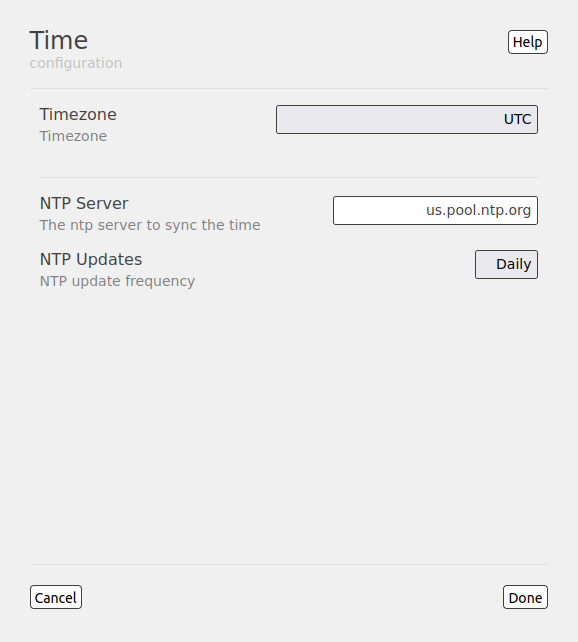
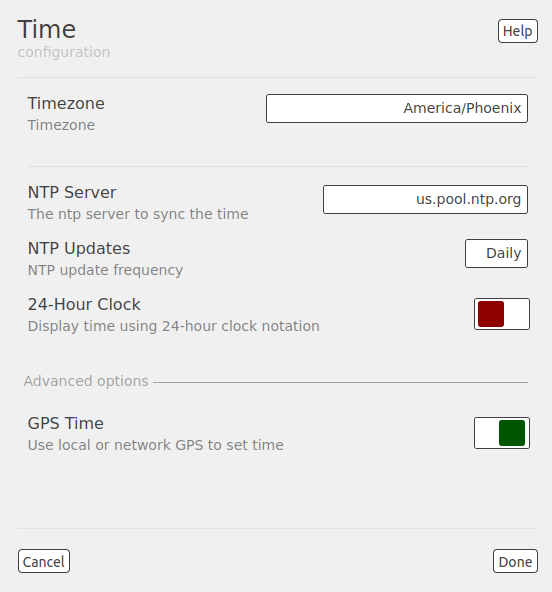
update admin time display

diff --git a/arednGettingStarted/node_admin.rst b/arednGettingStarted/node_admin.rst
@@ -72,7 +72,7 @@ You can click the ``Cancel`` button to ignore any changes you made on this displ
 Time settings
 -------------
 
-Select your timezone from the dropdown list, where the default value is :abbr:`UTC (Coordinated Universal Time)`. You can also enter the hostname for a :abbr:`NTP (Network Time Protocol)` source if your node is connected to a network which has a network time server. In the *NTP Server* field you should enter a valid hostname for the network time source, for example ``us.pool.ntp.org`` or ``AD5BC-ntp.local.mesh``. You may also choose how often NTP will update the node’s clock by selecting a value from the *NTP Updates* dropdown list. The default is once per day [daily] but you may also select once per hour [hourly]. If you have mesh based NTP servers, advertise them as services to ensure time synchronization across your mesh network even when the Internet is not available. Review the **Local Services** section below for instructions on advertising a local NTP server.
+Select your timezone from the dropdown list, where the default value is :abbr:`UTC (Coordinated Universal Time)`. You can also enter the hostname for a :abbr:`NTP (Network Time Protocol)` source if your node is connected to a network which has a network time server. In the *NTP Server* field you should enter a valid hostname for the network time source, for example ``us.pool.ntp.org`` or ``AD5BC-ntp.local.mesh``. You may also choose how often NTP will update the node’s clock by selecting a value from the *NTP Updates* dropdown list. The default is once per day [daily] but you may also select once per hour [hourly]. If you have mesh based NTP servers, advertise them as services to ensure time synchronization across your mesh network when the Internet is not available. Review the **Local Services** section below for instructions on advertising a local NTP server.
 
 .. image:: _images/admin-time.png
   :alt: Admin Time
@@ -80,7 +80,15 @@ Select your timezone from the dropdown list, where the default value is :abbr:`U
 
 |
 
-If a local `GPS <https://en.wikipedia.org/wiki/Global_Positioning_System>`_ source is available, you node can use that source after you install the `WhereAndWhen <https://github.com/kn6plv/WhereAndWhen>`_ package. If you plan to use Wireguard tunneling, make sure that an NTP or GPS time source is reachable when the node boots so that the key exchange between the client and server will happen correctly. Without proper time synchronization, Wireguard will not establish tunnels.
+By default the time on your node will be shown as a 12-hour clock with *am/pm*. To display node time using a 24-hour clock, enable the *24-Hour Clock* switch.
+
+Additional options are displayed when you click **Advanced Options**.
+
+By default your node can use a local `GPS <https://en.wikipedia.org/wiki/Global_Positioning_System>`_ time source if one is available. To disable this behavior, slide the switch to the *off* position.
+
+If you want your node to function as a GPS time *server* you will need to install the `WhereAndWhen <https://github.com/kn6plv/WhereAndWhen>`_ package. This third party package allows a node with adequate processing power and memory to have a USB GPS dongle connected so that it can provide GPS time for itself and other local DtD linked devices. Further information is available on the `WhereAndWhen <https://github.com/kn6plv/WhereAndWhen>`_ package website.
+
+If you plan to use Wireguard tunneling, make sure that a GPS or NTP time source is reachable when the node boots so that the key exchange between the client and server will happen correctly. Without proper time synchronization, Wireguard will not establish tunnels.
 
 Context-sensitive help is available by clicking the ``Help`` button. You can click the ``Cancel`` button to ignore any changes you made on this display. When you are finished with your changes, click the ``Done`` button. You will then be returned to your node's *admin* view where you will be able to ``Commit`` or ``Revert`` your changes.
 
@@ -609,7 +617,7 @@ Address Reservations
 
   You can create an *Address Reservation* by clicking the [+] icon to the right of the **Address Reservation** title. Click in the first field to enter the new device's hostname. In the second field select an unused IP address from the dropdown list. In the third field type the MAC address of the new device. If you have a device which needs to be reachable via your node, but which should not be accessed across the mesh network, click the *Do Not Propagate* checkbox to prevent OLSR from propagating that information across the mesh.
 
-  There may be some devices on which you are not able to set the hostname, so once you add that device to your *Address Reservations* you can click in the *hostname* field to edit the hostname that will be propagated across the mesh. You may also want to assign a specific IP Address to the device by selecting it from the drop-down list. You can click the *Do Not Propagate* checkbox to prevent OLSR from propagating the new device's information across the mesh.
+  There may be some devices on which you are not able to set the hostname, but once you add that device to your *Address Reservations* you can click in the *hostname* field to edit the hostname that will be propagated across the mesh. You may also want to assign a specific IP Address to the device by selecting it from the drop-down list. You can click the *Do Not Propagate* checkbox to prevent OLSR from propagating the new device's information across the mesh.
 
   In addition to adding an address reservation manually, you can also click the [+] icon at the right of any of the devices which have active DHCP leases as described below. You will then see that host appear in the *Address Reservations* list.
 

diff --git a/arednGettingStarted/node_status.rst b/arednGettingStarted/node_status.rst
@@ -20,7 +20,7 @@ From left to right, after the AREDN® logo, the node name is displayed along wit
 
 |icon1| At the far right is the default icon indicating that you are viewing the page as a normal user. Clicking this icon will open a dropdown menu that allows you to login as the node administrator.
 
-|icon2| If this icon is displayed at the far right, then you are viewing the page as the node administrator. Clicking this icon will open a dropdown menu that allows you to logout, reboot the node, or display help.
+|icon2| If this icon is displayed at the far right, then you are viewing the page as the node administrator. Clicking this icon will open a dropdown menu that allows you to logout, reboot the node, display help, or open the AREDN® website.
 
 Left Nav Bar
 ------------
@@ -29,7 +29,7 @@ Using the icons on the left side bar you can navigate to various displays.
 
 |icon3| navigates to this **node status** display.
 
-|icon4| navigates to the local mesh status page showing the nodes visible on the local mesh network, as well as any services are provided by those nodes.
+|icon4| navigates to the local mesh status page showing the nodes visible on the local mesh network, as well as any services provided by those nodes.
 
 |icon5| navigates to the *Cloud Mesh* view through the Supernode network (if available).
 
@@ -44,7 +44,7 @@ Node Description
   This is not a required field, but node owners typically use it to list their contact information or the tactical purpose for the node.
 
 Node Time, Uptime, Load Average, and Free Memory
-  The node time is displayed along with the source in parentheses. If an Internet connection or a local `NTP <https://en.wikipedia.org/wiki/Network_Time_Protocol>`_ server is available, your node's NTP client will sync its time with that source. If a local `GPS <https://en.wikipedia.org/wiki/Global_Positioning_System>`_ source is available, you node can use that source.
+  The node time is displayed along with the source in parentheses. If an Internet connection or a local `NTP <https://en.wikipedia.org/wiki/Network_Time_Protocol>`_ server is available, your node's NTP client will sync its time with that source. If a local `GPS <https://en.wikipedia.org/wiki/Global_Positioning_System>`_ source is available, your node can use that source.
 
   The ``uptime`` is also displayed, which is the time since the last reboot. ``load`` is the average system utilization for the last 1, 5, and 15 minutes. ``free flash`` and ``free ram`` shows how much storage space is remaining on your node. ``flash`` is the internal non-volatile storage where the operating system, configuration files, and software packages are kept. ``ram`` is the amount of :abbr:`RAM (Random Access Memory)` available for running processes on the node.
 
